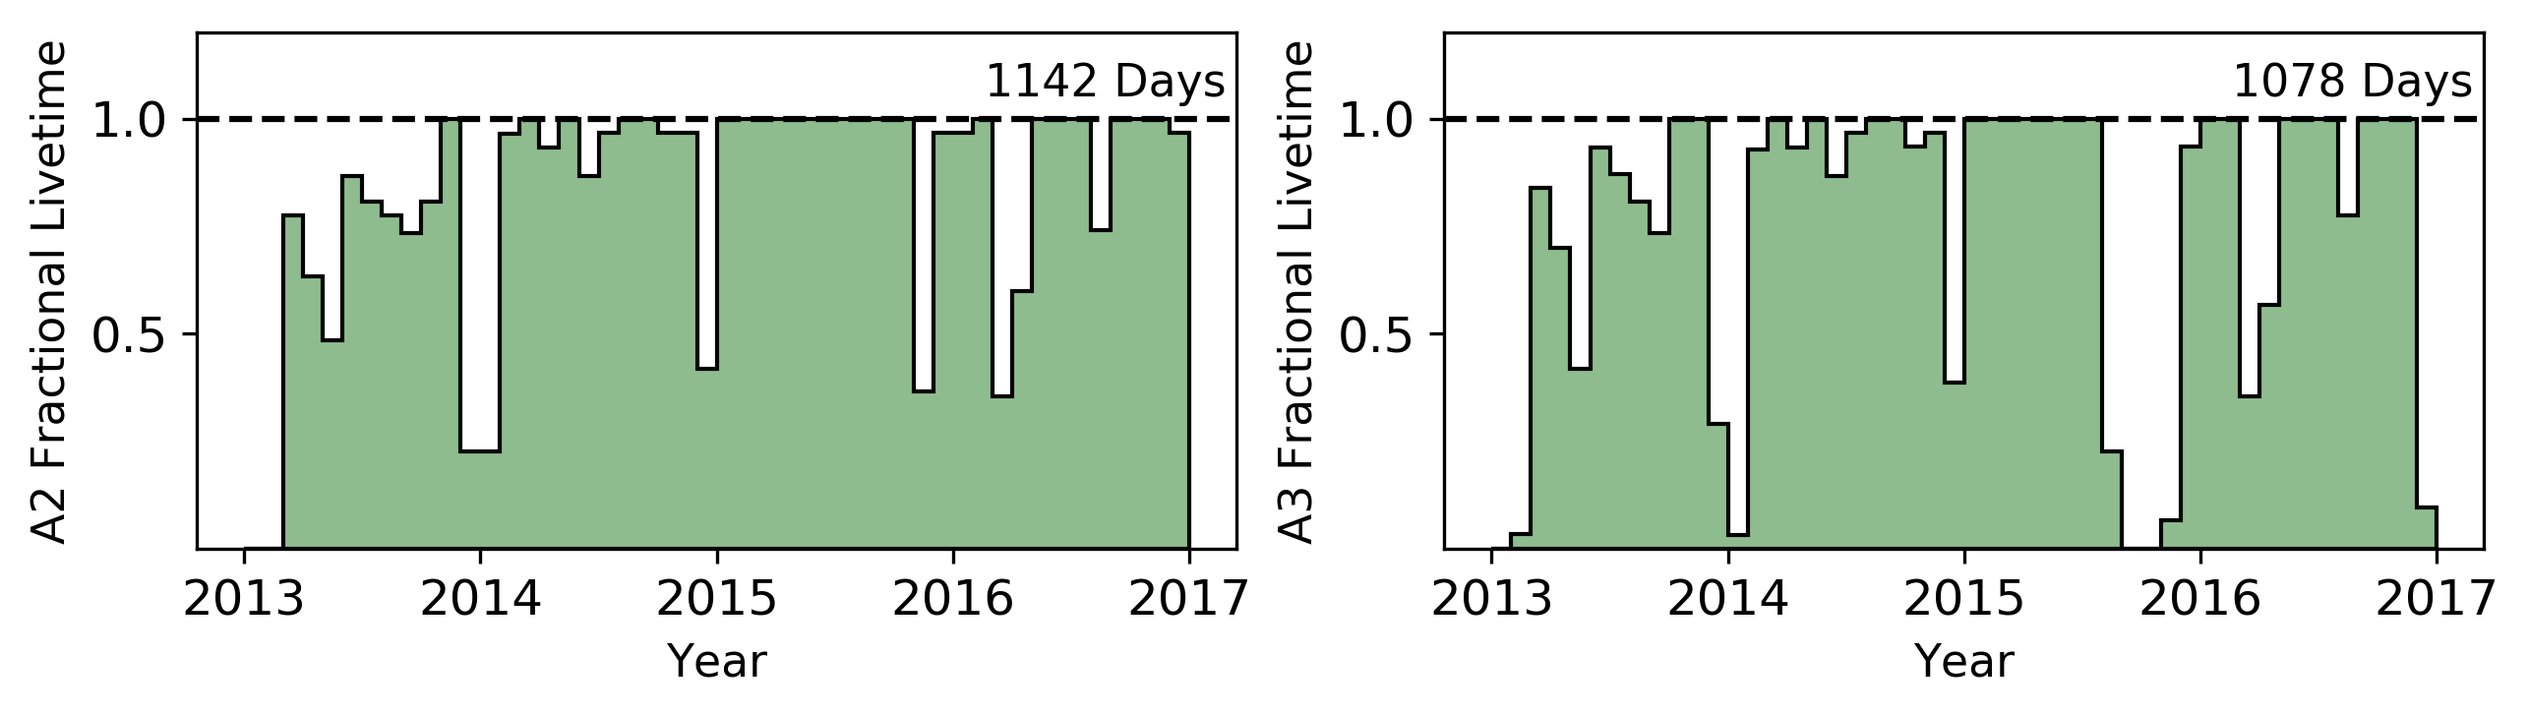
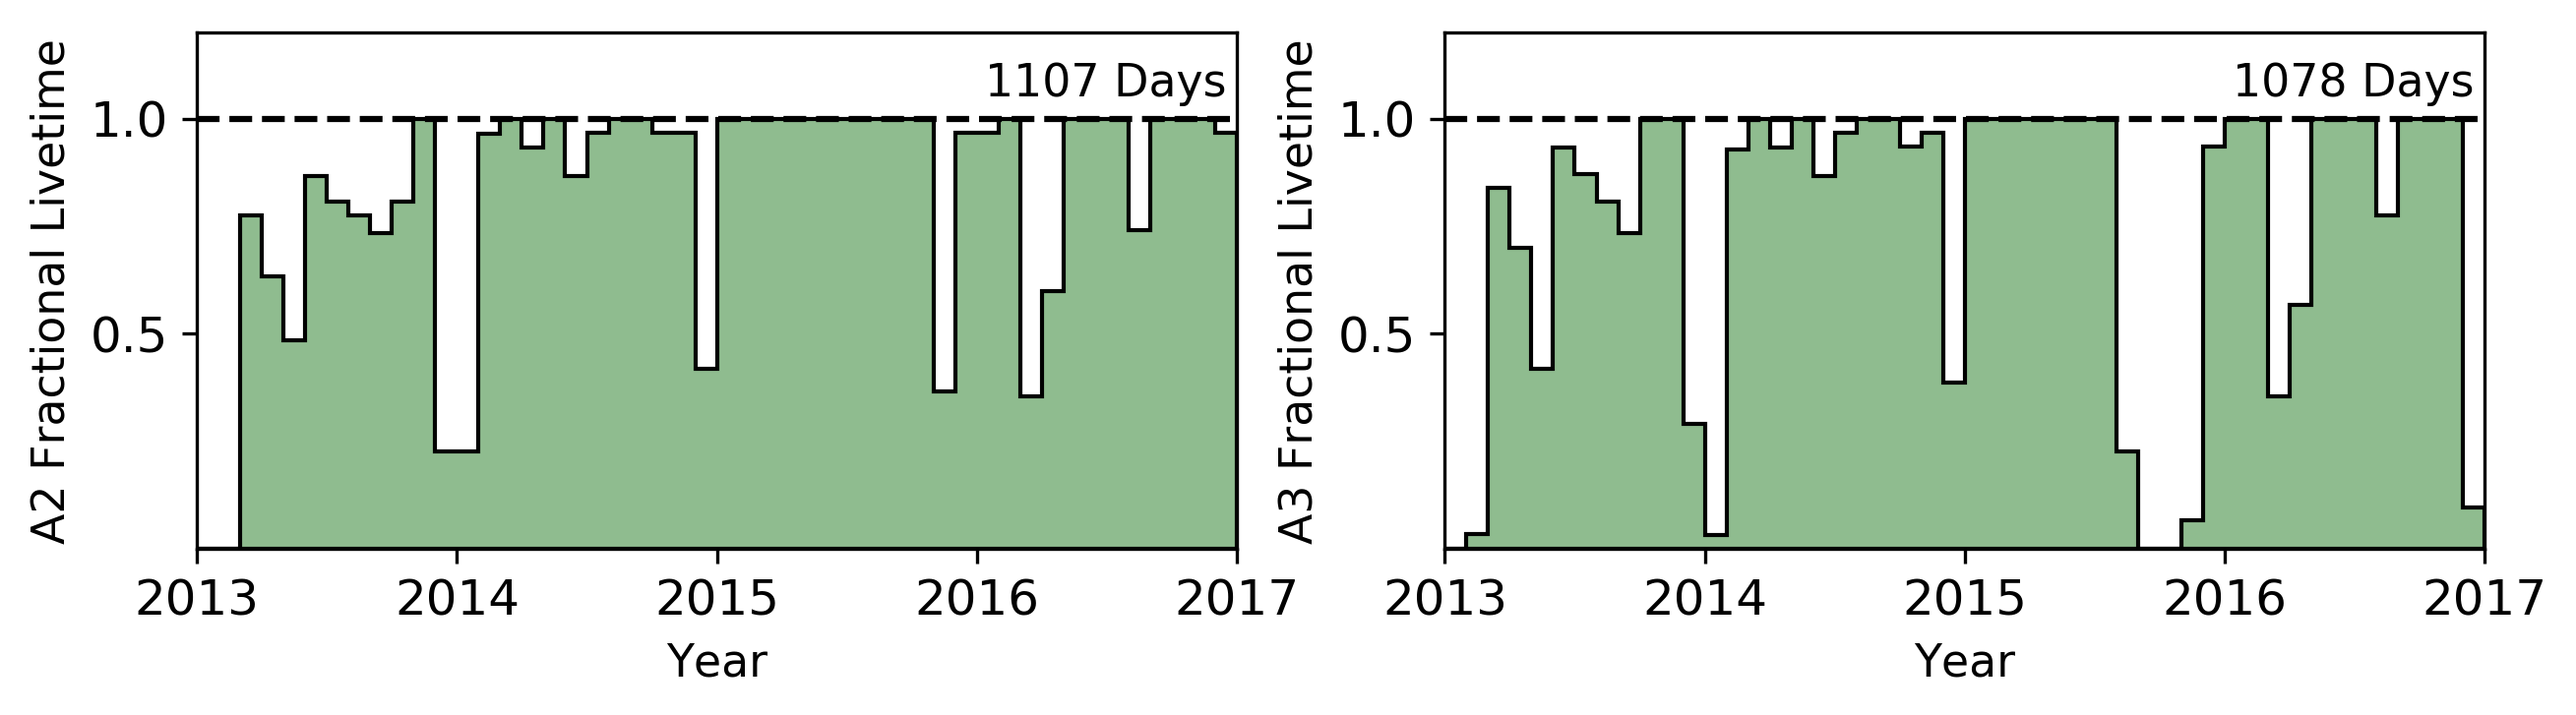
tweak bounds of livetime plot

diff --git a/proceedings/2019.07-ICRC-2019/livetime/make_histo.py b/proceedings/2019.07-ICRC-2019/livetime/make_histo.py
@@ -23,7 +23,7 @@ def main():
 	#, ,fill=False, stacked=True, histtype='step', color='red', linewidth=4, label='Testbed')
 	ax_a2.set_ylabel('A2 Fractional Livetime', size=11)
 	ax_a2.set_xlabel('Year', size=11)
-	ax_a2.text(0.99, 0.90, '1142 Days', horizontalalignment='right', verticalalignment='center', transform=ax_a2.transAxes,size=11)
+	ax_a2.text(0.99, 0.90, '1107 Days', horizontalalignment='right', verticalalignment='center', transform=ax_a2.transAxes,size=11)
 
 	
 	ax_a3=fig.add_subplot(num_total,2,2)
@@ -35,9 +35,9 @@ def main():
 
 	ax_list = fig.axes
 	for ax in ax_list:
-		# ax.set_xlim([start_year-.3,stop_year+0.3]) #set the x limits of the plot
+		ax.set_xlim([start_year,stop_year]) #set the x limits of the plot
 		ax.xaxis.set_ticks(np.arange(start_year, stop_year+1, 1))
-		ax.set_ylim([0,1.2]) #set the x limits of the plot
+		ax.set_ylim([0,1.2]) #set the y limits of the plot
 		ax.set_xticklabels(['2013','2014','2015','2016','2017'], size=12)
 		ax.yaxis.set_ticks([0.5,1])
 		ax.set_yticklabels(['0.5','1.0'], size=12)
